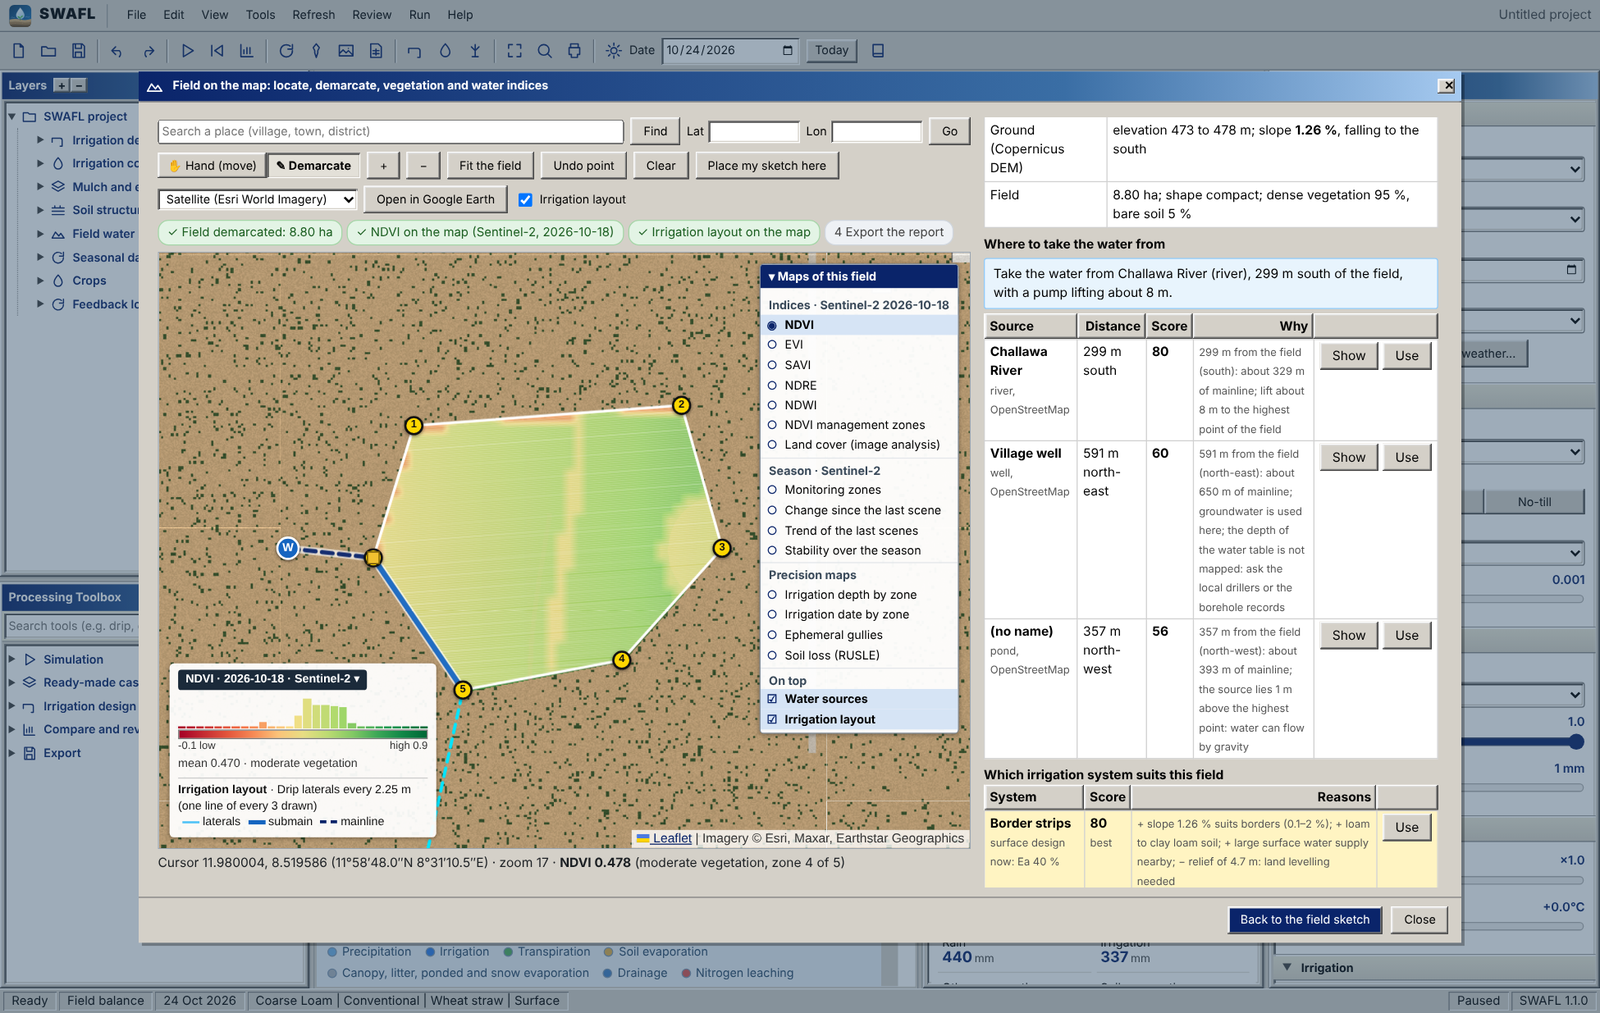
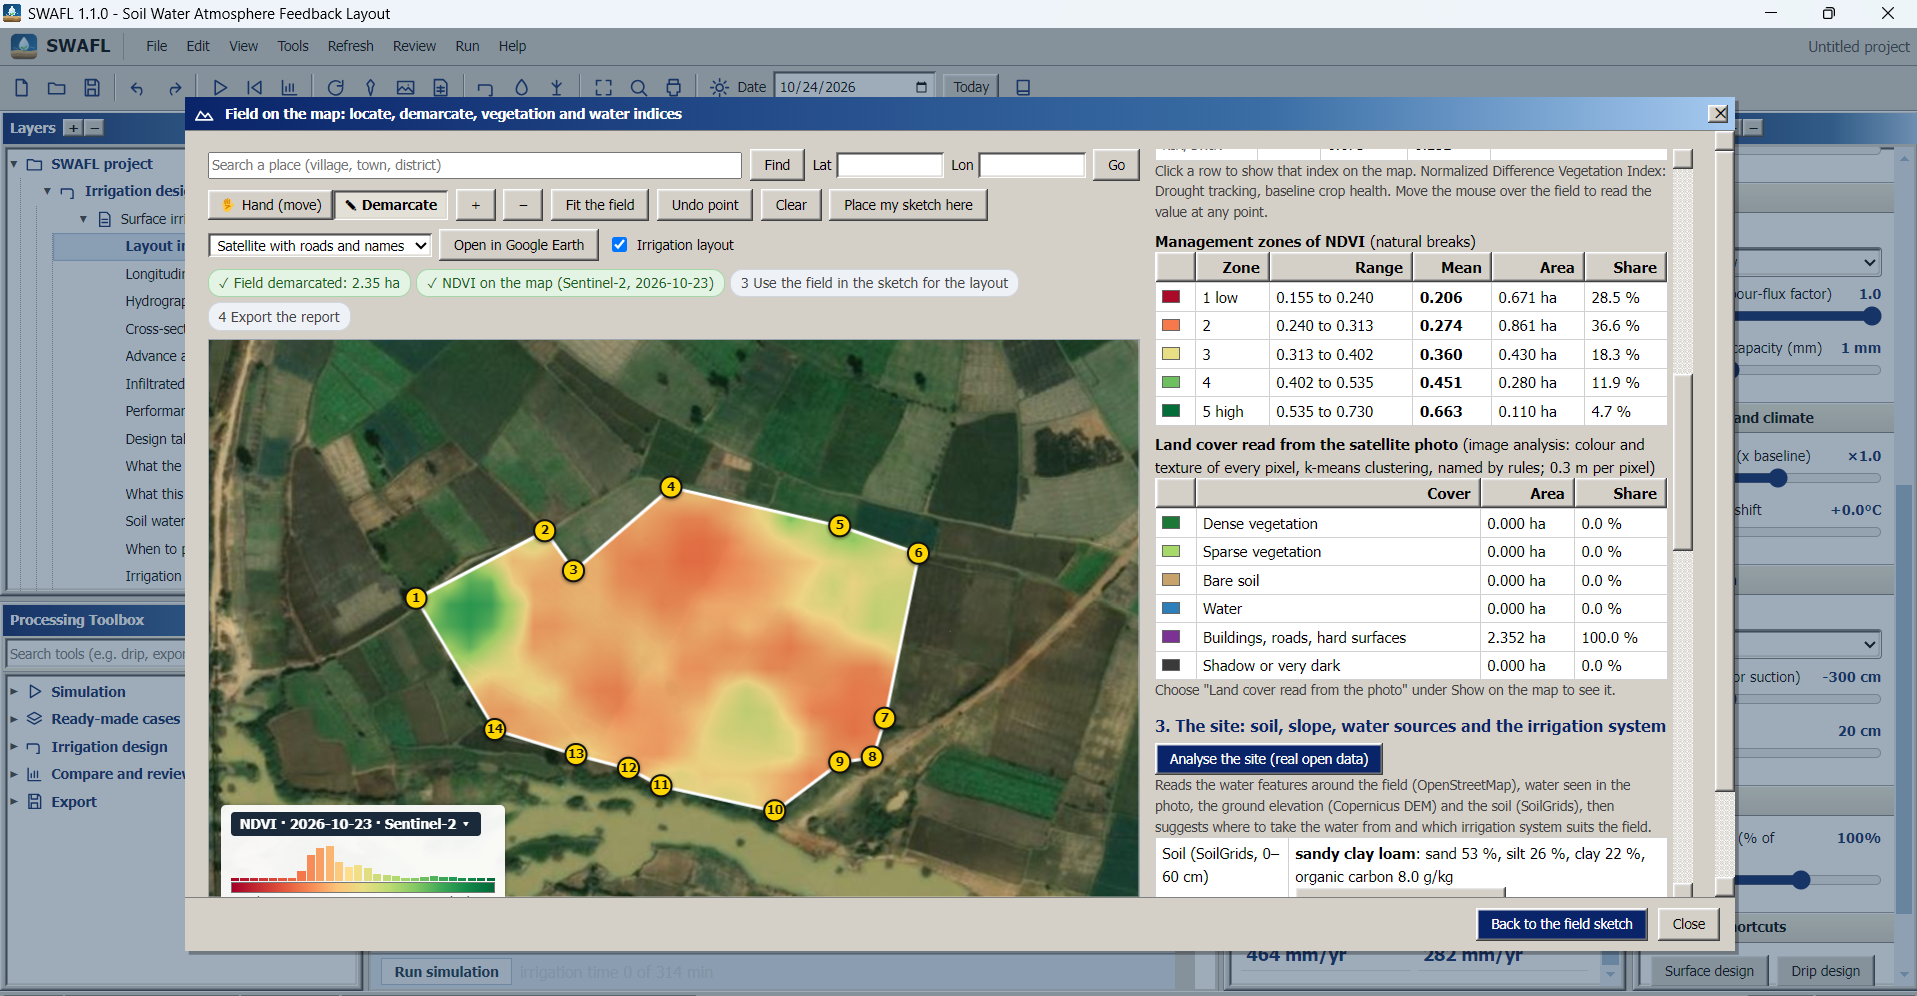
Overview: the field on the map screenshot of a real field

diff --git a/README.md b/README.md
@@ -32,9 +32,9 @@ drainage.
 
 *SWAFL Desktop 1.1.0, the online version (nothing to install): the drip irrigation design with the soil water of the days ahead and its irrigation schedule (FAO-56, crop Kc × ET0 of the weather in use), the Dashboard, the Layers and the Properties. Click the picture to open it live.*
 
-<a href="https://halilunaziru73-creator.github.io/Coupled-Water-Fluxes-Pore-Scale-Dynamics-Precision-Irrigation-Mulching-Feedback-Loops/Software/v1.1.0/SWAFL_Desktop/app/index.html?v=1.1.0"><img src="https://raw.githubusercontent.com/halilunaziru73-creator/halilunaziru73-creator/main/assets/swafl_field_on_the_map_110.png" width="100%" alt="SWAFL Desktop 1.1.0, Tools, Field on the map: a demarcated field with its Sentinel-2 NDVI, the maps of this field as layers, the irrigation layout, water sources and the irrigation system for the field"></a>
+<a href="https://halilunaziru73-creator.github.io/Coupled-Water-Fluxes-Pore-Scale-Dynamics-Precision-Irrigation-Mulching-Feedback-Loops/Software/v1.1.0/SWAFL_Desktop/app/index.html?v=1.1.0"><img src="https://raw.githubusercontent.com/halilunaziru73-creator/halilunaziru73-creator/main/assets/swafl_field_on_the_map_110.png" width="100%" alt="SWAFL Desktop 1.1.0, Tools, Field on the map: a real field demarcated on the satellite image with its Sentinel-2 NDVI and management zones"></a>
 
-*Field on the map (Tools, remote sensing): the demarcated field with its Sentinel-2 NDVI cut to the outline, the maps of the field as layers (indices, land cover, the Sentinel-2 season, irrigation depth and date by zone, ephemeral gullies, soil loss), the irrigation layout, and the water sources and irrigation system ranked for the field. This picture was made with test data (no internet on the build machine); with internet the program shows the real satellite image and data of your field.*
+*Field on the map (Tools, remote sensing): a real field demarcated on the satellite image (2.35 ha), its Sentinel-2 NDVI of 23 October 2026 cut to the outline, with the management zones of NDVI and their areas, the soil from SoilGrids, and the site analysis (water sources and the irrigation system suited to the field).*
 
 **Software created from this research (SWAFL).** The programs below are the software built from the 10,190 Daisy simulations, the 134 numbered equations and the three manuscripts of this repository. They compute and show the trigger law, the mulch water account and the regime map from this work, and they can be used without installing anything.
 
